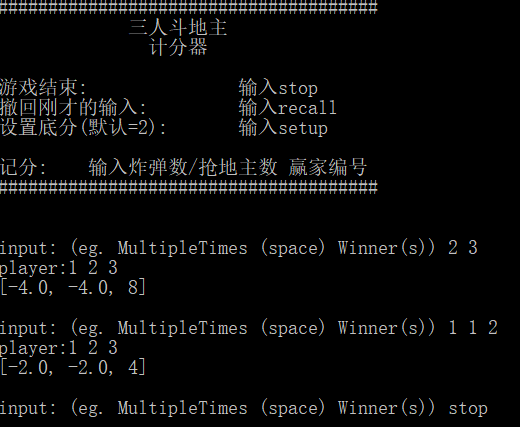
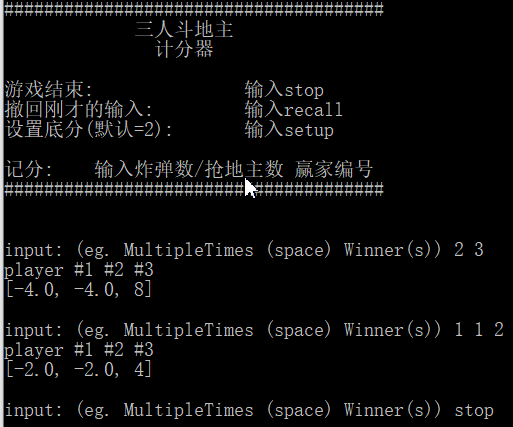
add image to readme.md

Changed region(s): [[0.0, 0.0, 0.9981, 1.0], [0.4366, 0.1827, 0.6862, 0.3349]]

diff --git a/count.py b/count.py
@@ -49,7 +49,7 @@ if __name__ == '__main__':
             buffer.insert(0, 0)
             LeftValue = buffer[len(buffer) - 1]
             print("recall the last result")
-            print("player 1 2 3")
+            print("player #1 #2 #3")
             print(buffer[len(buffer) - 1])
         else:
             screenin = str.split()
@@ -95,5 +95,5 @@ if __name__ == '__main__':
             buffer.append(copy.copy(LeftValue))
             buffer.pop(0)
 
-            print("player:1 2 3")
+            print("player #1 #2 #3")
             print(LeftValue)
